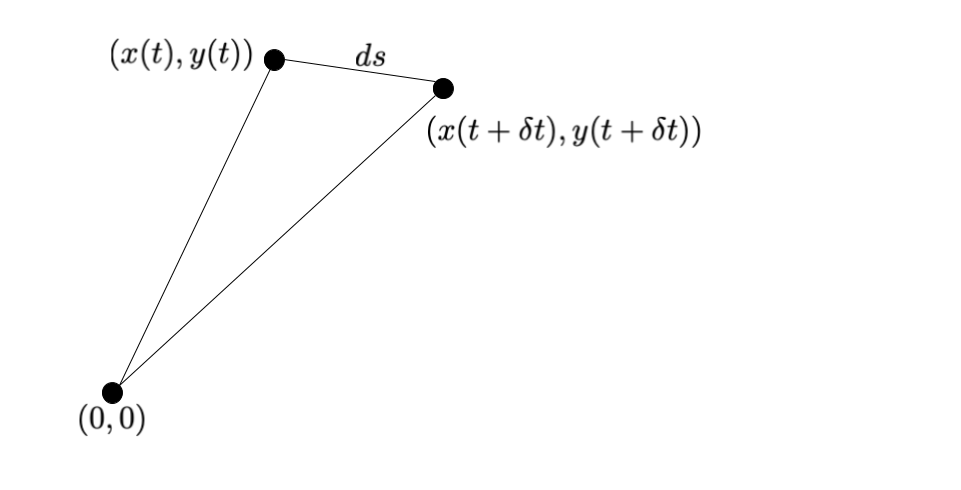
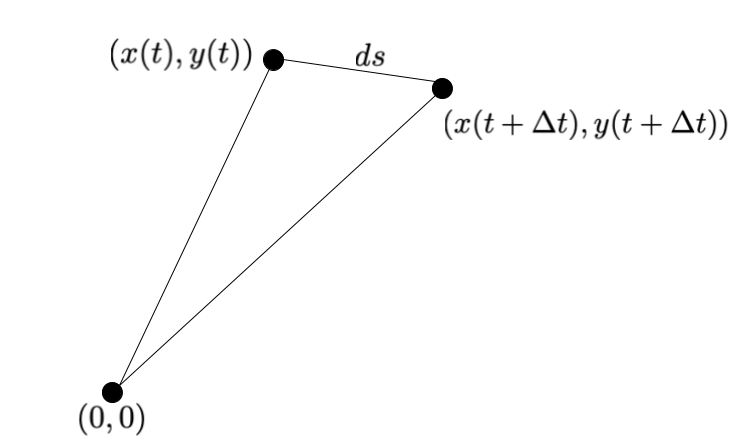
Introduction to  COV

diff --git a/_posts/2020-08-11-calculus-of-variations.md b/_posts/2020-08-11-calculus-of-variations.md
@@ -53,9 +53,9 @@ It is worth seeing briefly how COV game is played in different fields before mov
 </figure>
 
 
-In physics, there is an important toolbox called the minimization principles (also known as [Variational
+In Physics, there is an important toolbox called the minimization principles (also known as [Variational
 Principles](https://en.wikipedia.org/wiki/Variational_principle)). A popular (and successful) technique in theoretical
-Physics can be described as follows. We start by expressing a known law of physics (e.g. Newtonian mechanics) in terms
+Physics can be described as follows. We start by expressing a known law of Physics (e.g. Newtonian mechanics) in terms
 of a minimization principle. While this reformulation by itself does not produce new laws, it leads us to a new
 mathematical structure for the old theory that is more 'higher level' or abstract. Then there is a leap of faith. It is
 hypothesized that this mathematical structure is obeyed not only in the known-and-old field (e.g Newtonian mechanics)
@@ -66,7 +66,7 @@ physicists](https://en.wikipedia.org/wiki/Higgs_boson#History). Experiment, of
 course, is the final judge of whether the guess was right or wrong. A good [summary](https://en.wikipedia
 .org/wiki/Lagrangian_field_theory) of well-known minimization principles in Physics can be found on Wikipedia.
 
-Minimization principles also play an important role in computational physics. If a suitable minimization principle is
+Minimization principles also play an important role in computational Physics. If a suitable minimization principle is
 known for a problem, it enables computational solutions to otherwise difficult-to-handle problems. Calculation of the
 [energy levels of Helium atoms](https://en.wikipedia.org/wiki/Helium_atom#The_variational_method) is an elementary
 example of a variational technique applied to a theoretically difficult computation. Taken to its logical extreme by
@@ -94,14 +94,13 @@ The two problems we will solve are the isoperimetric problem and the minimum ent
 solved in most textbooks on the subject. Yet it is extremely helpful to internalize the concepts by going over them by
 ourselves.
 
-As said earlier, the standard minimization problems is to find the _point_ $x_0$ which minimizes a given scalar function
-$f (x)$. The input variable $x$ can be scalar or a vector, but the function value must be scalar. In standard
-calculus, $x_0$ is the solution to the equation $f'(x) = 0$.
-
-The minimization problem in COV is to find the _function_ $f(x)$ which minimizes a scalar _functional_ $J[f]$. A
-functional is a function of functions. A regular function $f$ takes an input $x$ and outputs a scalar $y$ . A
-functional, on the other hand, takes the whole function $f$ and outputs a single number. We can write this in
-symbols as:
+As said earlier, the standard minimization problems is to find the $x_0$ which minimizes a given scalar function $f
+(x)$. By a scalar function we mean a function that returns a scalar value. In input variable $x$ can be a scalar or a
+vector. The minimization problem in COV is to find the $f(x)$ which minimizes the objective function $J[f]$. An
+objective function is also known as a _functional_ which simply means a 'function that takes other functions as
+input'--something like higher-order functions in some programming languages. To reiterate, a regular function $f$ takes
+an input $x$ and outputs a scalar $y$. A functional takes the whole function $f$ and outputs a scalar. We can write
+the action of a functional in symbols as follows:
 
 $$
 \begin{equation*}
@@ -109,15 +108,18 @@ J[f] = \text{a scalar value}
 \end{equation*}
 $$
 
-A functional may seem like a new concept, but it is not. Any subroutine which calculates the mean, median, variance, or
-area, of an input function is a functional. Objective functions used in machine learning algorithms are functionals.
-There are examples of functionals in scientific libraries (e.g. [numerical integration using Simpson's
-rule](https://docs.scipy.org/doc/scipy/reference/generated/scipy.integrate.simps.html)).
+Any subroutine which calculates the mean, median, variance, or area, of an input function is a functional. Objective
+functions used in machine learning algorithms are functionals. There are examples of functionals in scientific libraries
+(e.g. [numerical integration using Simpson's
+rule](https://docs.scipy.org/doc/scipy/reference/generated/scipy.integrate.simps.html)). Fourier transform, on the
+other hand, is _not_ a functional by our definition. A Fourier transform calculator takes in a function and outputs
+another function, not a scalar.
 
-Finding an $f(x)$ that minimizes $J[f(x)]$ is a harder problem than finding an $x$ that minimizes $f(x)$. For
-a calculus of variations problem, therefore we cannot write a general recipe like solve $f'(x) = 0$. We have to
-proceed by identifying special cases. The most common special case is one where $J$ depends on the _integral_ of a
-function $L()$ which is itself a function only of $x$, $y =f(x)$ and $y'= f'(x)$. That is
+For a calculus of variations problem we cannot write a general recipe like solve $f'(x) = 0$ because finding an $f(x)$
+that minimizes $J[f(x)]$ is a harder problem than finding an $x$ that minimizes $f(x)$. We therefore have to proceed by
+identifying special cases of $J[f]$ and developing special equations for them. The most common special case is one where
+$J$ depends on the _integral_ of a function $L()$ which is itself a function only of $x$, $y =f(x)$ and $y'= f'(x)$.
+That is
 
 $$
 \begin{equation*}
@@ -142,12 +144,12 @@ $$
 \end{equation}
 $$
 
-In computing the derivatives of $L$, we treat $y$ and $y'$ as independent variables. That is, when computing
-$\partial L/\partial y$ we do not worry about derivative of $y'$ with respect to $y$. Similarly when computing
-$\partial L/\partial y'$ we do not worry about derivative of $y$ with respect to $y'$. If we perform the
-manipulations in equation \eqref{eq:el}, it yields a differential in terms of $x$, $y$ and $y'$ whose solution gives
-us a $y(x)$. This is the part about COV being a machine for generating differential equations that, when solved,
-produce functions which satisfy our original objective.
+In computing the derivatives of $L$, we treat $y$ and $y'$ as independent variables. That is, when computing $\partial
+L/\partial y$ we do not worry about derivative of $y'$ with respect to $y$. Similarly when computing $\partial
+L/\partial y'$ we do not worry about derivative of $y$ with respect to $y'$. If we perform the manipulations in equation
+\eqref{eq:el}, it yields a differential equation in terms of $x$, $y$ and $y'$ whose solution gives us a $y(x)$. This is
+the part about COV being a machine for generating differential equations that, when solved, produce functions which
+satisfy our original objective.
 
 To add constraints, we use a the method of [Lagrange multipliers](https://en.wikipedia.org/wiki/Lagrange_multiplier).
 This method modifies the $L(x, y, y')$ function using the constraints and allows us to still use the Euler-Lagrange
@@ -155,9 +157,17 @@ equations. The method of Lagrange multipliers will become clear when we work wit
 
 ### Isoperimetric problem
 
-To solve the isoperimetric problem we're given a loop of an inelastic wire of perimeter $S$ and asked for a shape
-$y = f(x)$ that will maximize the area $A$ of the shape. To be able to use the Euler-Lagrange equation, we need to
-derive the $L$ function for the problem. There are standard formulas for the area and perimeter of any curve.
+The
+[isoperimetric problem](https://en.wikipedia.org/wiki/Isoperimetric_inequality#The_isoperimetric_problem_in_the_plane)
+can be stated as follows:
+
+>determine a plane figure of the largest possible area whose boundary has a specified length.
+
+In other words, we're given a loop of an inelastic wire of perimeter $S$ and asked for a shape $y = f(x)$ that will
+maximize the area $A$ of the shape. As stated above, the recipe is to derive an appropriate $L$ function for the problem
+and then use the Euler-Lagrange equation to get a differential equation for the curve.
+
+We can use well-known formulas for the area $A$ and the perimeter $S$ of a planar curve:
 
 $$
 \begin{align*}
@@ -184,9 +194,7 @@ $$
 $$
 
 where we have ignored the constant term $\lambda P$ since it wont survive the derivatives in the Euler-Lagrange
-equations.
-
-This is the standard form if we identify
+equations. This is the standard form if we identify
 
 $$
 \begin{equation*}
@@ -194,7 +202,7 @@ $$
 \end{equation*}
 $$
 
-This form is ready be plugged into the Euler-Lagrange equation. We obtain
+which gives us the $L$ function we were after. Plugging into the Euler-Lagrange equation we obtain
 
 $$
 \begin{align*}
@@ -218,7 +226,7 @@ is the standard equation of a circle centered at $(-h, -k)$ and radius $\lambda$
 ### Max entropy problem
 
 The max entropy problem is simpler calculus-wise but involves multiple constraints in a single problem. One version
-of the max entropy read as follows:
+of the max entropy reads:
 
 > Among all probability distributions $p(x)$ of known mean $\mu$ and known variance $\sigma^2$ find the one with
 largest entropy.
@@ -271,8 +279,9 @@ $$
 \end{align*}
 $$
 
-where $A \leftarrow e^{-(1+\lambda_1)}$, $a \leftarrow \lambda_2$ and $b \leftarrow \lambda_3$. We have the standard
-integrals (e.g. from Wolfram Alpha)
+where $A = e^{-(1+\lambda_1)}$, $a = \lambda_2$ and $b = \lambda_3$. Notice that in this case the differential equation
+we obtained reduced to a simple algebraic one. To proceed further we use the standard integrals for a Gaussian function
+(e.g. from Wolfram Alpha)
 
 $$
 \begin{align*}
@@ -368,7 +377,7 @@ We will explore generalization #2 in more detail using the isoperimetric problem
 seeking the function $y(x)$ we will parametrize the $x$ and the $y$ coordinates using a single dependent variable $t$
 and using _two_ functions: $x = x(t)$ and $y = y(t)$. To derive the new $L$ function, we need the formulas for the
 area and the perimeter of this parametrized curve. To that end we will consider two successive points along this
-curve separated by an infinitesimal distance $\delta t$. The situation is depicted in the figure below.
+curve separated by an infinitesimal distance $\Delta t$. The situation is depicted in the figure below.
 
 <figure>
     <img src="{{site.url}}/assets/img/triangle.png" alt='hello' width='500' heigh='500' style='margin: 10px;'>
@@ -379,15 +388,15 @@ The area of this infinitesimal triangle is
 
 $$
 \begin{align*}
-    \delta A &= \frac{1}{2}
+    \Delta A &= \frac{1}{2}
     \begin{vmatrix}
         0 & 0 & 1 \\
         x(t) & y(t) & 1 \\
-        x(t + \delta t) & y(t + \delta t) & 1
+        x(t + \Delta t) & y(t + \Delta t) & 1
     \end{vmatrix} \\
-    &= \frac{1}{2}\left[ x(t) y(t + \delta t) - y(t) x(t + \delta t)\right] \\
-    &= \frac{1}{2}[x(t) y'(t) - y(t) x'(t)]\delta t
-        \qquad\ldots \text{using } f(t + \delta t) \approx f(t) + f'(t)\delta t  \\
+    &= \frac{1}{2}\left[ x(t) y(t + \Delta t) - y(t) x(t + \Delta t)\right] \\
+    &= \frac{1}{2}[x(t) y'(t) - y(t) x'(t)]\Delta t
+        \qquad\ldots \text{using } f(t + \Delta t) \approx f(t) + f'(t)\Delta t  \\
     dA &= \frac{1}{2}(x y' - x'y)dt \qquad \ldots \text{differential notation}
 \end{align*}
 $$
@@ -395,12 +404,12 @@ $$
 The total area $A$ enclosed by the curve is the sum over areas of all infinitesimal triangles as the parameter $t$ is
 varied over its range: $A = \int \frac{1}{2}(x y' - x' y) dt$.
 
-The perimeter $\delta s$ of the exterior segment of the infinitesimal triangle is
+The perimeter $\Delta s$ of the exterior segment of the infinitesimal triangle is
 
 $$
 \begin{align*}
-    \delta s^2 &= (x(t+\delta t) - x(t))^2 + (y(t+\delta t) - y(t))^2 \\
-         &= (x'(t)^2 + y'(t)^2)\delta t^2\\
+    \Delta s^2 &= (x(t+\Delta t) - x(t))^2 + (y(t+\Delta t) - y(t))^2 \\
+         &= (x'(t)^2 + y'(t)^2)\Delta t^2\\
     ds &= \sqrt{x'^2 + y'^2} dt \qquad \ldots \text{differential notation}
 \end{align*}
 $$
@@ -459,7 +468,15 @@ $$
 
 is once again the standard equation of a circle.
 
+### Summary
+We dipped our toes in the fascinating world of calculus of variations. We stated the fundamental equation of COV, the
+Euler-Lagrange equation, and saw a few of its generalizations. Though we didnt delve into it, the form of the
+Euler-Lagrange equations has deeper significance and it appears over and over in study of Physics and Optimization.
 
+We next saw how to construct the $L$ function and solve the Euler-Lagrange equations for a couple of standard examples.
+As a result, we can now prove how circle is the shape that maximizes the area of a loop of given perimeter. Hopefully
+this modest exercise has provided you some appreciation for COV and left you with a sense of curiosity for further
+exploration.
 
 
 
